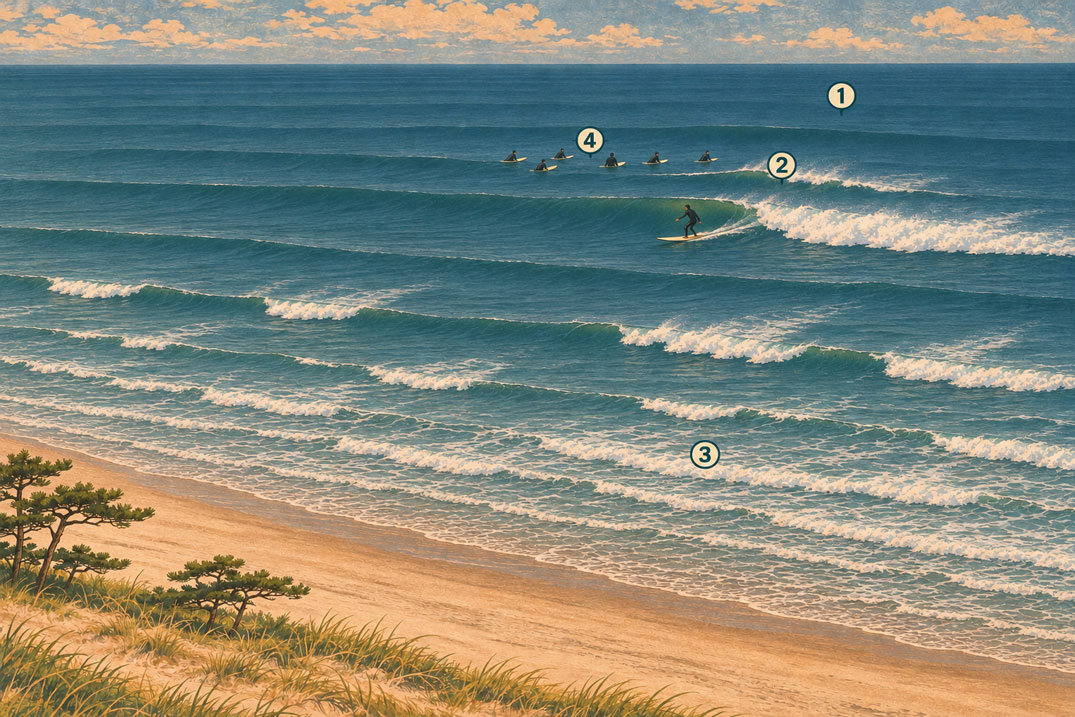
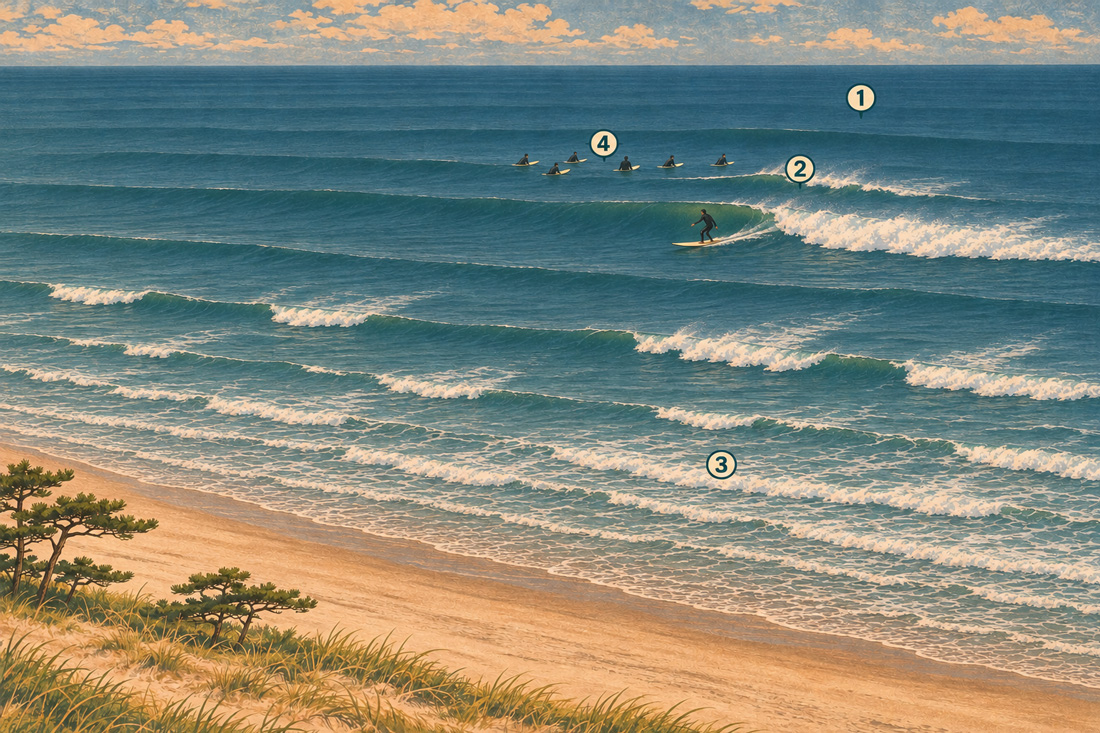
JPG instead of PNG, wider pictures on site

Changed region(s): [[0.0307, 0.7057, 0.0921, 0.7364]]

diff --git a/rawsite/css/style.css b/rawsite/css/style.css
@@ -94,7 +94,7 @@ main{flex:1 0 auto;max-width:312.208mm;margin:0 auto;padding:42px var(--pad) 16.
 .glossary-card{width:min(100% - 10.16mm,108mm);padding:0;border:2px solid var(--bark);background:var(--kapa);color:var(--ink);box-shadow:0 5.503mm 16.933mm rgba(45,35,22,.28)}.glossary-card::backdrop{background:rgba(32,46,45,.58)}.glossary-card-inner{padding:6.350mm 6.773mm}.glossary-card h2{margin:0;color:var(--char);font:400 26px/1.1 var(--display);letter-spacing:0;text-transform:uppercase}.glossary-card p{margin:16px 0 0;color:var(--ink-soft);font-size:16px;line-height:1.55}.glossary-card-actions{display:flex;flex-wrap:wrap;align-items:center;justify-content:space-between;gap:3.387mm;margin-top:5.080mm}.glossary-card-actions a{font-weight:600}.glossary-card-close{padding:1.905mm 3.387mm;border:1px solid var(--bark);background:transparent;color:var(--bark);font:600 var(--ui-size) var(--sans);letter-spacing:.1em;text-transform:uppercase;cursor:pointer}.glossary-card-close:hover{background:var(--bark);color:var(--kapa)}
 .glossary-tooltip{position:fixed;z-index:20;max-width:min(84vw,88mm);padding:2.540mm 3.175mm;background:var(--char);color:var(--kapa);box-shadow:0 2.117mm 5.080mm rgba(45,35,22,.2);font-size:16px;line-height:1.55;pointer-events:none}.glossary-tooltip[hidden]{display:none}
 .glossary-term-layout{display:grid;grid-template-columns:minmax(0,1fr) 74.083mm;gap:10.583mm;align-items:start;margin-top:8.467mm}.glossary-definition--lead{max-width:calc(var(--measure) + 9.736mm + 4px);margin:0;padding:4.233mm 4.868mm;background:var(--kapa-warm);border-left:4px solid var(--alaea);font-size:22px;line-height:1.55}.glossary-article-facts h3{margin:5.715mm 0 2.328mm;color:var(--bark);font:600 var(--ui-size) var(--sans);letter-spacing:.18em;text-transform:uppercase}.glossary-riding-status{margin:0;color:var(--ink-soft);font-size:16px;line-height:1.55}.glossary-riding-note{margin:2.117mm 0 0;color:var(--ink-muted);font-size:16px;line-height:1.55}.glossary-related{display:grid;gap:1.693mm;margin:0;padding-left:4.868mm}.glossary-related li{color:var(--ink-soft);font-size:16px;line-height:1.55}.glossary-back{margin:10.583mm 0 0;padding-top:5.292mm;border-top:2px solid var(--bark);font:600 var(--ui-size) var(--sans);letter-spacing:.1em;text-transform:uppercase}
-.glossary-swell-figure{margin:8.467mm 0}.glossary-swell-grid{display:grid;grid-template-columns:repeat(2,minmax(0,1fr));gap:6px}.glossary-swell-panel{display:flex;min-width:0;flex-direction:column;background:var(--kapa-warm)}.glossary-swell-art{position:relative;display:block;border:2px solid var(--bark);line-height:0;overflow:hidden}.glossary-swell-art img{display:block;width:100%;height:auto}.glossary-swell-label{position:absolute;top:2.963mm;left:2.963mm;padding:1.058mm 2.117mm;background:var(--kapa);border:1px solid var(--bark);color:var(--bark);font:600 var(--ui-size)/1.1 var(--sans);letter-spacing:.1em;text-transform:uppercase}.glossary-swell-art:hover .glossary-swell-label,.glossary-swell-art[aria-current="page"] .glossary-swell-label{background:var(--alaea);border-color:var(--alaea);color:var(--kapa)}.glossary-swell-key{flex:1;margin:0;padding:2.963mm 3.598mm;border:2px solid var(--bark);border-top:0;background:var(--kapa-warm)}.glossary-swell-key dt{color:var(--bark);font:600 var(--ui-size) var(--sans);letter-spacing:.18em;text-transform:uppercase}.glossary-swell-key dd{margin:.508mm 0 0;color:var(--ink-soft);font-size:16px;line-height:1.55}
+.glossary-swell-figure{margin:8.467mm 0}.glossary-swell-grid{display:grid;grid-template-columns:repeat(2,minmax(0,1fr));gap:6px}.glossary-break-types-figure .glossary-swell-grid{grid-template-columns:1fr}.glossary-swell-panel{display:flex;min-width:0;flex-direction:column;background:var(--kapa-warm)}.glossary-swell-art{position:relative;display:block;border:2px solid var(--bark);line-height:0;overflow:hidden}.glossary-swell-art img{display:block;width:100%;height:auto}.glossary-swell-label{position:absolute;top:2.963mm;left:2.963mm;padding:1.058mm 2.117mm;background:var(--kapa);border:1px solid var(--bark);color:var(--bark);font:600 var(--ui-size)/1.1 var(--sans);letter-spacing:.1em;text-transform:uppercase}.glossary-swell-art:hover .glossary-swell-label,.glossary-swell-art[aria-current="page"] .glossary-swell-label{background:var(--alaea);border-color:var(--alaea);color:var(--kapa)}.glossary-swell-key{flex:1;margin:0;padding:2.963mm 3.598mm;border:2px solid var(--bark);border-top:0;background:var(--kapa-warm)}.glossary-swell-key dt{color:var(--bark);font:600 var(--ui-size) var(--sans);letter-spacing:.18em;text-transform:uppercase}.glossary-swell-key dd{margin:.508mm 0 0;color:var(--ink-soft);font-size:16px;line-height:1.55}
 .wave-anatomy-figure{margin:8.467mm 0;border:2px solid var(--bark);background:var(--kapa-warm)}.wave-anatomy-scroll{overflow-x:auto}.wave-anatomy-art{position:relative;min-width:152.4mm;line-height:0}.wave-anatomy-art img,.wave-anatomy-profile-svg{display:block;width:100%;height:auto}.wave-profile-bg{fill:var(--kapa-warm)}.wave-profile-water{fill:var(--reef)}.wave-profile-surface{fill:none;stroke:#fff4dd;stroke-width:8;stroke-linecap:round}.wave-profile-depthline{fill:none;stroke:var(--kapa);stroke-width:3;opacity:.28}.wave-profile-depthline--two{opacity:.18}.wave-profile-point{fill:var(--alaea);stroke:var(--kapa);stroke-width:3}.wave-profile-guide{fill:none;stroke:var(--bark);stroke-width:2;stroke-dasharray:8 7;opacity:.7}.wave-profile-measure,.wave-profile-period-measure{fill:none;stroke:var(--bark);stroke-width:4;stroke-linecap:round;stroke-linejoin:round}.wave-profile-arrow{fill:var(--alaea);stroke:var(--kapa);stroke-width:2}.wave-profile-motion{fill:none;stroke:var(--kapa);stroke-width:6;stroke-linecap:round}.wave-profile-motion-arrow{fill:var(--kapa)}.wave-profile-motion-label{position:absolute;left:86%;top:57%;transform:translate(-50%,-100%);padding:.846mm 1.693mm;background:rgba(55,41,29,.84);color:var(--kapa);font:600 var(--ui-size)/1.1 var(--sans);letter-spacing:.1em;text-transform:uppercase;white-space:nowrap}.wave-anatomy-labels{position:absolute;inset:0;list-style:none;margin:0;padding:0;pointer-events:none}.wave-anatomy-labels li{position:absolute;left:var(--label-x);top:var(--label-y);transform:translate(-50%,-50%)}.wave-anatomy-labels a{display:block;pointer-events:auto;padding:.846mm 1.693mm;border:1px solid var(--bark);background:rgba(243,230,201,.94);box-shadow:0 .635mm 1.693mm rgba(55,41,29,.22);color:var(--bark);font:600 var(--ui-size)/1.1 var(--sans);letter-spacing:.1em;text-decoration:none;text-transform:uppercase;white-space:nowrap}.wave-anatomy-labels a:hover,.wave-anatomy-labels a[aria-current="page"]{background:var(--alaea);border-color:var(--alaea);color:var(--kapa)}.wave-anatomy-figure figcaption>p{margin:0;padding:2.752mm 3.387mm;color:var(--ink-soft);font-size:16px;line-height:1.55}.wave-anatomy-key{display:grid;grid-template-columns:repeat(2,minmax(0,1fr));margin:0}.wave-anatomy-key>div{padding:2.752mm 3.387mm;border-top:1px solid var(--rule);border-right:1px solid var(--rule)}.wave-anatomy-key>div:nth-child(even){border-right:0}.wave-anatomy-key dt{color:var(--bark);font:600 var(--ui-size) var(--sans);letter-spacing:.18em;text-transform:uppercase}.wave-anatomy-key dd{margin:.508mm 0 0;color:var(--ink-soft);font-size:16px;line-height:1.55}
 @media(max-width:232.833mm){.site-header{grid-template-columns:1fr auto;gap:3.175mm 4.233mm;padding-top:3.175mm;padding-bottom:3.175mm}.brand{grid-column:1;grid-row:1;align-self:start;justify-self:start}.nav-disclosure{display:block;grid-column:2;grid-row:1;justify-self:end}.nav-disclosure[open]{grid-column:1/-1;grid-row:1;justify-self:stretch}.nav-disclosure summary{display:flex;align-items:center;justify-content:space-between;width:max-content;padding:1.482mm 2.328mm;border:2px solid var(--bark);color:var(--bark);font:600 3.217mm var(--sans);letter-spacing:.322mm;text-transform:uppercase;cursor:pointer;list-style:none}.nav-disclosure[open] summary{margin-left:auto}.nav-disclosure summary::-webkit-details-marker{display:none}.nav-disclosure summary::after{content:"+";margin-left:2.117mm;font-size:4.233mm;line-height:.8}.nav-disclosure[open] summary{background:var(--bark);color:var(--kapa)}.nav-disclosure[open] summary::after{content:"−"}.nav-content{display:none}.nav-disclosure[open] .nav-content{display:grid;grid-template-columns:1fr auto;align-items:start;margin-top:2.117mm}.nav-disclosure[open] .nav{display:flex;grid-column:1/-1;grid-row:2;margin-top:2.117mm;padding-top:2.117mm;border-top:1px solid var(--rule)}.nav-disclosure[open] .languages{display:flex;grid-column:2;grid-row:1;justify-self:end;width:max-content}.nav{gap:.847mm 3.175mm;font-size:3.387mm}.nav a{padding:1.058mm 0}.languages{font-size:2.963mm}.languages a{padding:1.482mm 1.905mm}.spot-layout,.glossary-intro,.glossary-term-layout{grid-template-columns:1fr}.glossary-key{order:-1}.facts{position:static}.spot-nav{grid-template-columns:1fr;text-align:left}.spot-nav .next{text-align:left}}
 @media(max-width:148.167mm){.cards{grid-template-columns:1fr}.boardscale{margin-left:-1.058mm;margin-right:-1.058mm}.boardscale-grid{min-width:150.813mm}.boardslot{min-width:23.283mm}.board-stage{height:87.313mm;padding-bottom:7.938mm}.board{height:calc(var(--board-length) * .582mm)}.glossary-swell-grid{grid-template-columns:1fr}.glossary-swell-label{top:1.693mm;left:1.693mm;font-size:2.752mm}}

diff --git a/rawsite/_include/glossary-break-types-illustration.html b/rawsite/_include/glossary-break-types-illustration.html
@@ -59,10 +59,10 @@ COPY = {
 panels = COPY["panels"]
 image_alts = COPY["image_alts"]
 IMAGE_FILES = {
-    "beach-break": "beach-break-v2.png",
-    "reef-break": "reef-break-v2.png",
-    "point-break": "point-break-v7.png",
-    "rivermouth": "rivermouth-v2.png",
+    "beach-break": "beach-break-v2.jpg",
+    "reef-break": "reef-break-v2.jpg",
+    "point-break": "point-break-v7.jpg",
+    "rivermouth": "rivermouth-v2.jpg",
 }
 
 print('<figure class="glossary-swell-figure glossary-break-types-figure">')
@@ -73,7 +73,7 @@ for (key, label, description), image_alt in zip(panels, image_alts):
     image_src = b + "img/glossary/" + IMAGE_FILES[key]
     print('    <div class="glossary-swell-panel">')
     print(f'      <a class="glossary-swell-art" href="{html.escape(href, quote=True)}"{active}>')
-    print(f'        <img src="{html.escape(image_src, quote=True)}" alt="{html.escape(image_alt, quote=True)}" width="1536" height="1024" loading="lazy">')
+    print(f'        <img src="{html.escape(image_src, quote=True)}" alt="{html.escape(image_alt, quote=True)}" width="1100" height="733" loading="lazy">')
     print(f'        <span class="glossary-swell-label">{html.escape(label)}</span>')
     print('      </a>')
     print('      <dl class="glossary-swell-key">')
